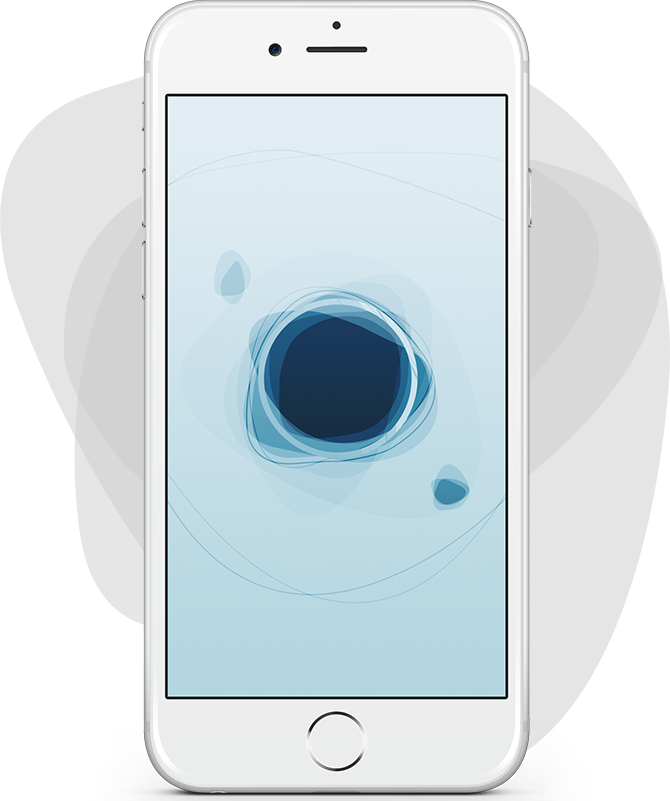
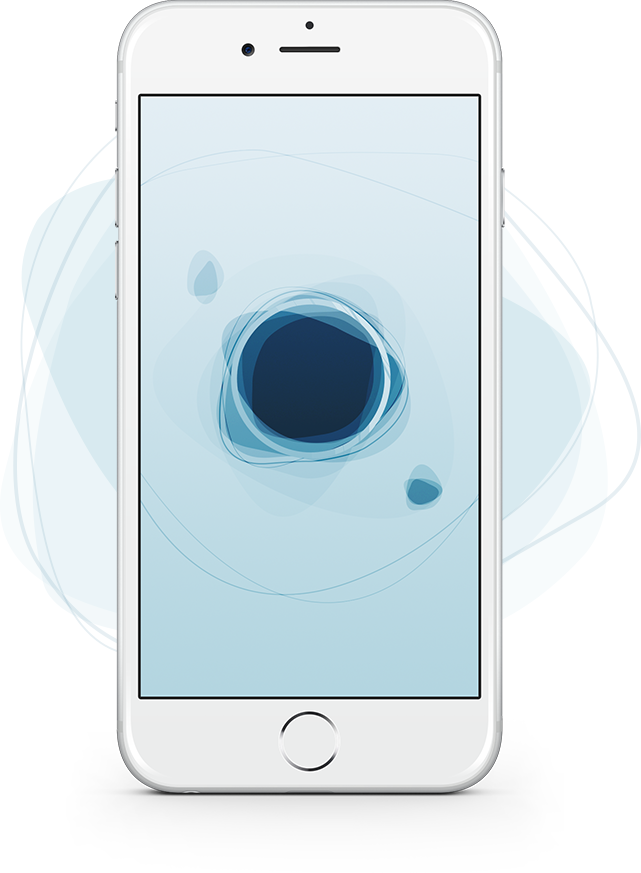
New phone image, colorise the cross, spacing around messaging

diff --git a/src/app/components/take-over/index.js b/src/app/components/take-over/index.js
@@ -25,7 +25,7 @@ const takeover = {
   links: [{
     type: 'http',
     text: 'Download on iOS',
-    url: 'https://itunes.apple.com/us/app/pause-relaxation-at-your-fingertip/id991764216?ls=1&mt=8'
+    url: 'http://us2.co/pauseapp'
   }, {
     type: 'http',
     text: 'Go to getpauseapp.com',
@@ -121,9 +121,8 @@ export default class TakeOver extends React.Component {
       content = (
         <div key="detail" className="take-over__content">
           <div className="take-over__content__message">
-            <CloseButton onClose={this.onClickClose} className="take-over__content__message__close" autoAnim={1000} />
-            <Rimage wrap="div" className="take-over__content__image"  sizes={get(image, 'media_details.sizes')}>
-            </Rimage>
+            <CloseButton onClose={this.onClickClose} className="take-over__content__message__close" autoAnim={1000} style={{ fill: takeover.header_color }} />
+            <Rimage wrap="div" className="take-over__content__image"  sizes={get(image, 'media_details.sizes')} />
             <h1 className="take-over__content__message__title" style={{color: takeover.header_color}}>{takeover.title}</h1>
             <p className="take-over__content__message__description">{takeover.description}</p>
             <ul className="take-over__content__message__links">

diff --git a/src/app/components/take-over/_index.scss b/src/app/components/take-over/_index.scss
@@ -74,7 +74,7 @@
         display: block;
         border: 0;
         background: none;
-        margin: 0 auto 5%;
+        margin: 0 auto 5vh;
         padding: 0;
         z-index: 100;
 
@@ -90,18 +90,18 @@
       }
       &__title {
         color: $marshPassion;
-        margin-top: 10%;
+        margin-top: 5vh;
         font-size: 32px;
       }
       &__description {
-        margin-top: 3%;
+        margin-top: 1vh;
       }
       &__links {
         display: flex;
         flex-direction: column;
         list-style: none;
         padding: 0;
-        margin: 0 0 30px;
+        margin: 0 0 10vh;
 
         &__link-item {
           margin-bottom: 15px;
@@ -176,7 +176,7 @@
   @include susy-breakpoint($bp-large, $susy) {
     &__content__message {
       &__title {
-        margin-top: 5%;
+        margin-top: 0;
         font-size: 40px;
       }
       &__links {

diff --git a/src/app/components/close-button/index.js b/src/app/components/close-button/index.js
@@ -14,7 +14,7 @@ export default class CloseButton extends SVGSequenceAnimation {
     return (
       <button onClick={this.props.onClose} className={classnames('close-button', this.props.className)}>
         {this.props.children}
-        <svg ref="animsvg" title="Close menu" role="img" viewBox="0 0 20 20">
+        <svg ref="animsvg" title="Close menu" role="img" viewBox="0 0 20 20" style={this.props.style}>
           <g id="Frame16">
             <path d="M6.507 7.323c.268-.25.54-.5.807-.75.904.97 1.812 1.944 2.72 2.913.92-.983 1.835-1.97 2.757-2.952l.81.75c-.93 1.008-1.87 2.008-2.8 3.008.89.953 1.78 1.906 2.67 2.867-.26.25-.54.5-.8.75-.872-.94-1.74-1.88-2.614-2.81-.874.94-1.757 1.88-2.632 2.83-.266-.25-.54-.5-.805-.75.894-.96 1.8-1.92 2.69-2.89-.93-.99-1.85-1.99-2.774-2.98z" />
           </g>
